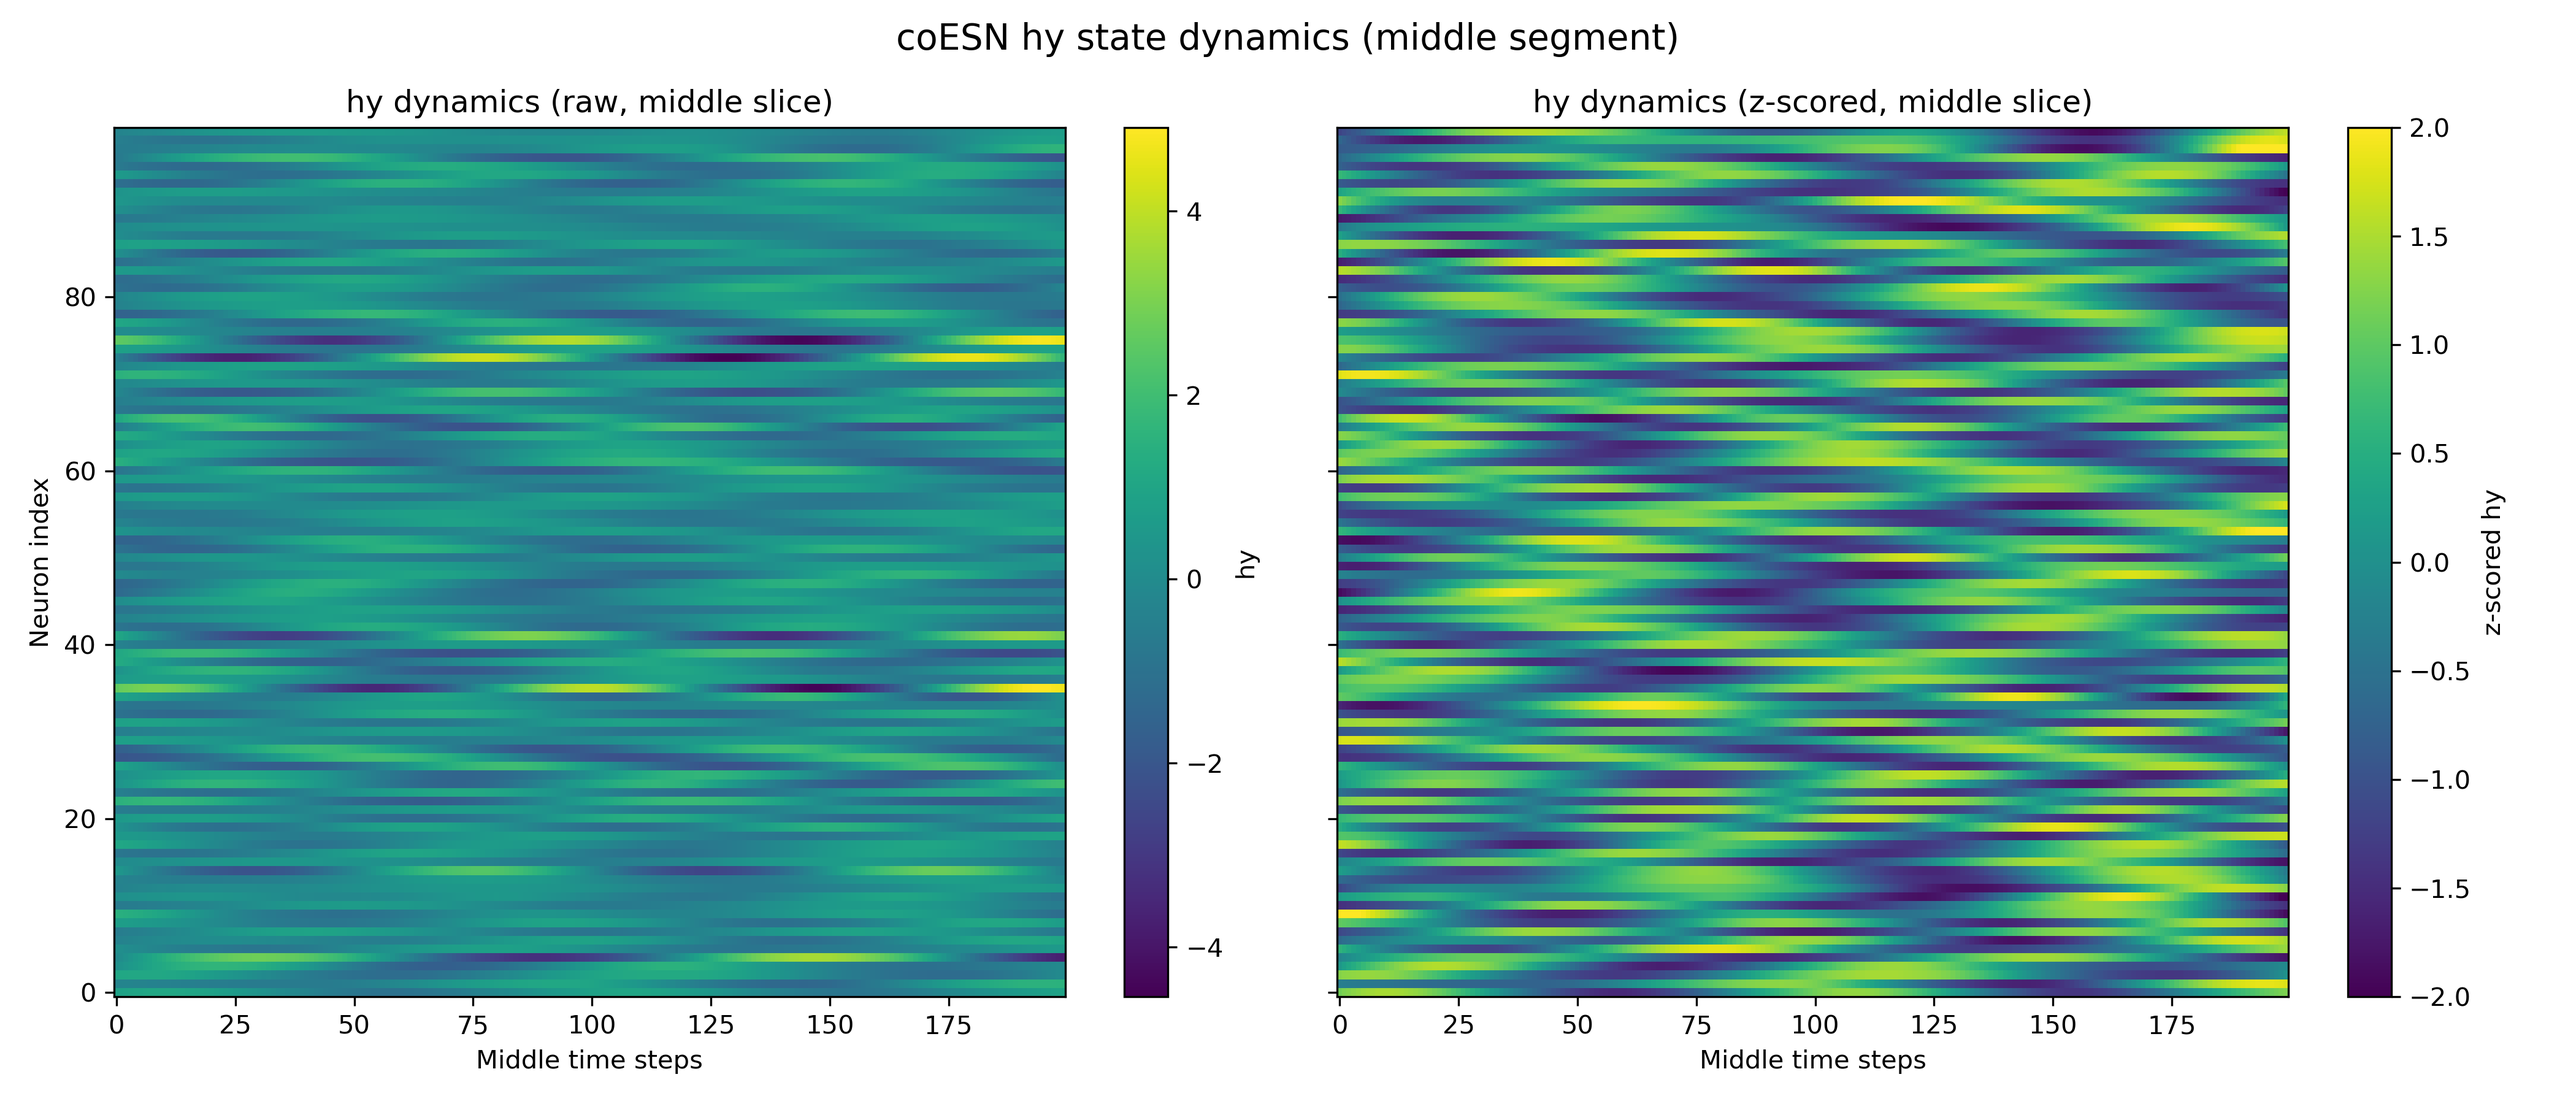
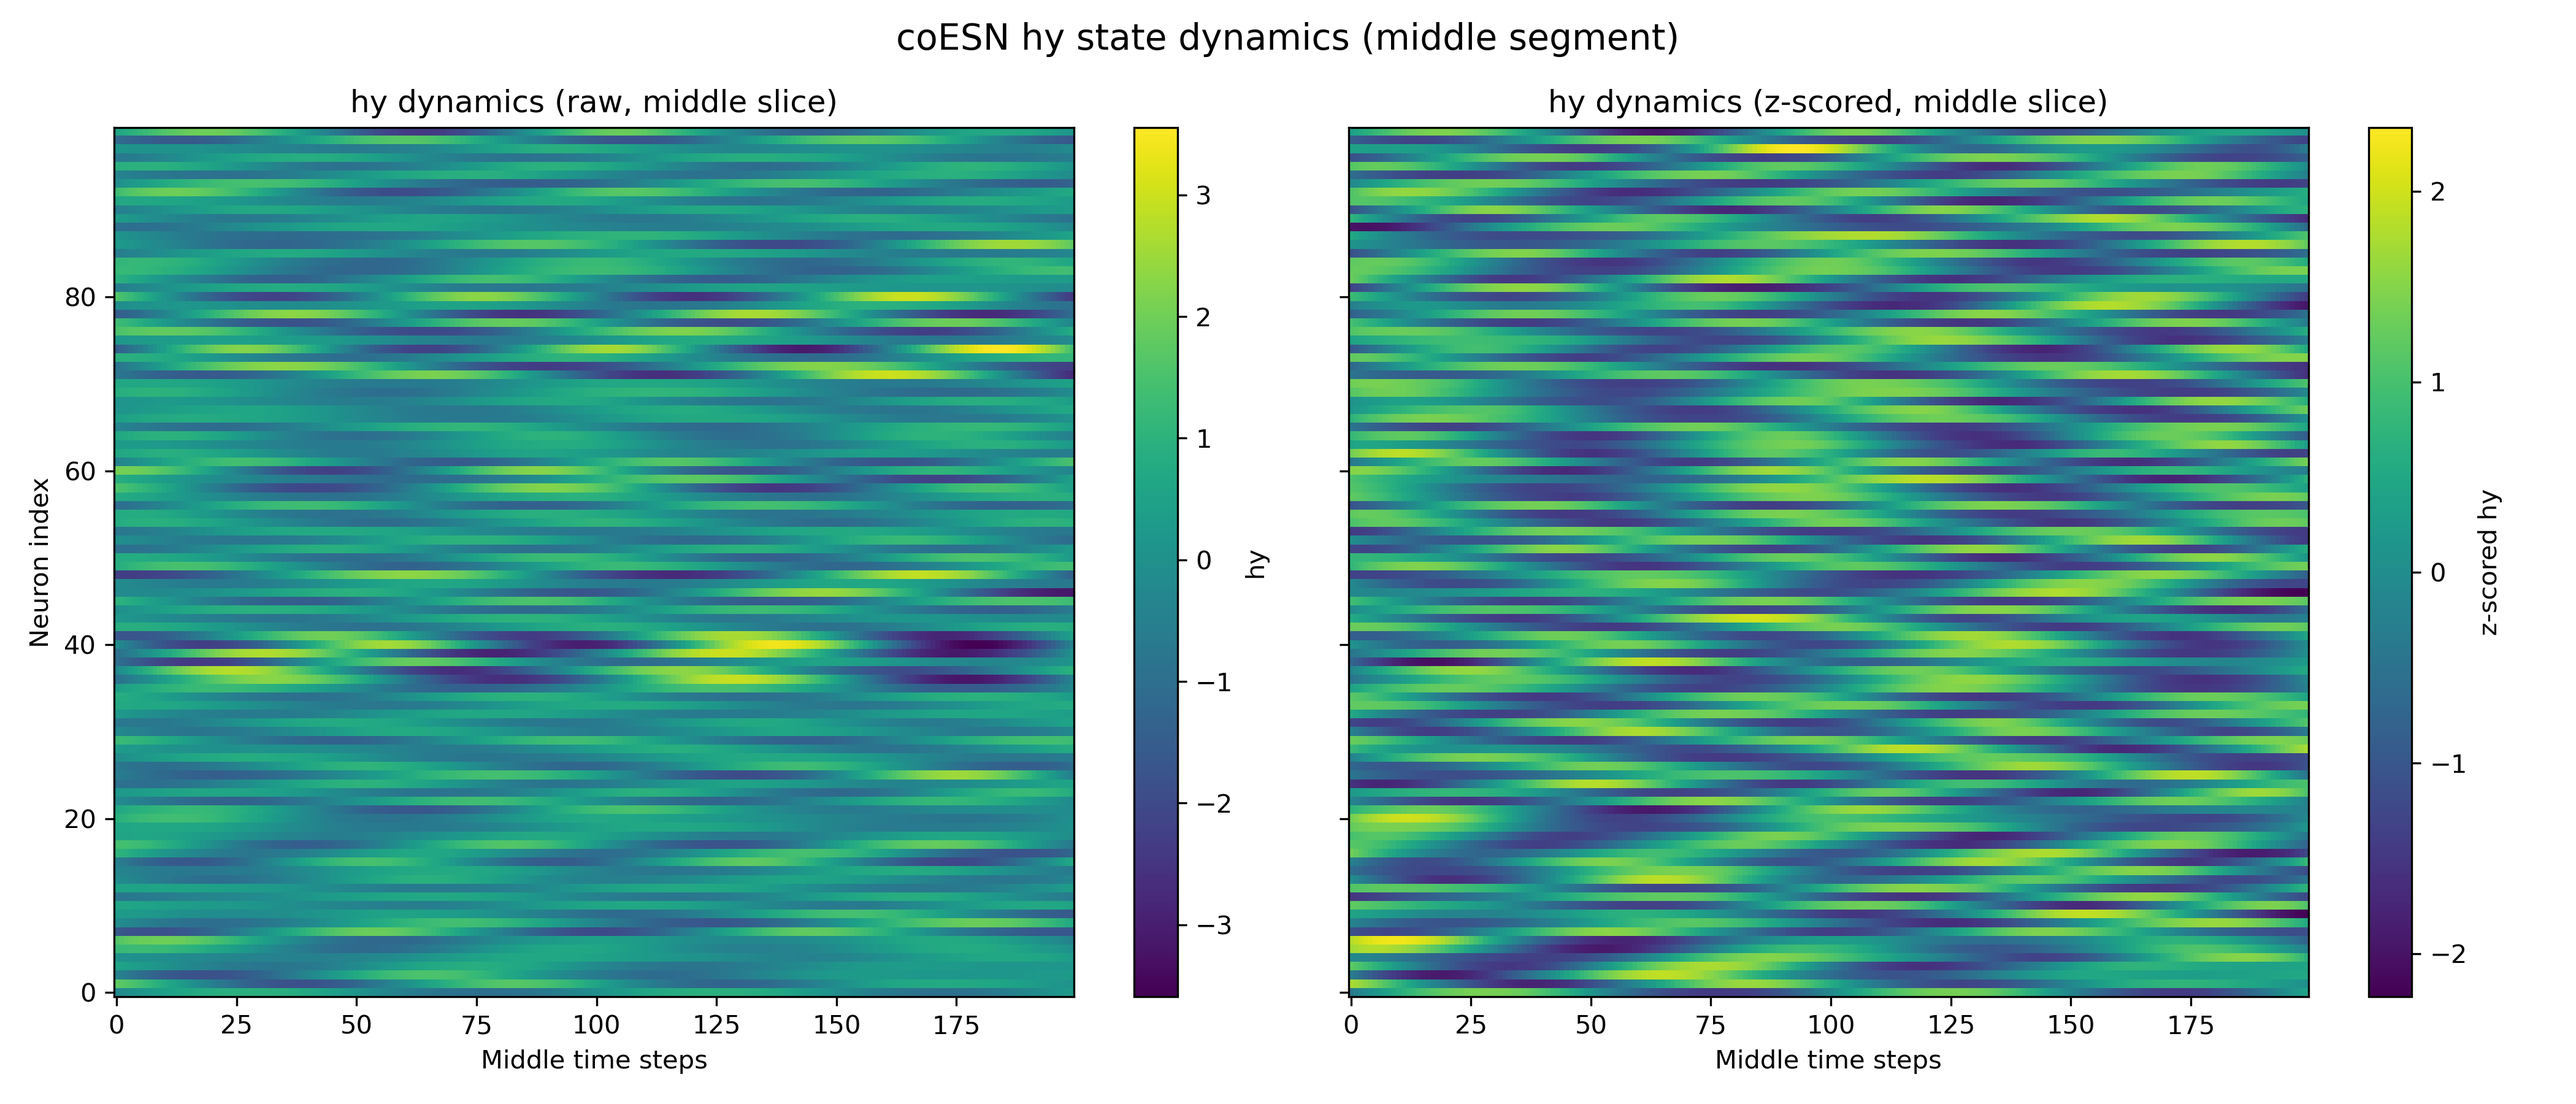
improve_acc.py 10-12-2025

diff --git a/improve_acc.py b/improve_acc.py
@@ -74,7 +74,7 @@ class spiking_coESN_rescaled(nn.Module):
         # When a spike (1) is multiplied by this matrix, the input to the HRF
         # will effectively be bounded between -1.0 and 1.0, mimicking tanh(input)
         # where the input leads to saturation.
-        lif2hrf = (torch.rand(n_hid, n_hid) * 2 - 1) * 1.0 
+        lif2hrf = (torch.rand(n_hid, n_hid) * 2 - 1) * 2.0 
         
         # We can apply spectral norm scaling here to control the stability, similar to h2h,
         # ensuring the maximum possible drive doesn't cause instability.
